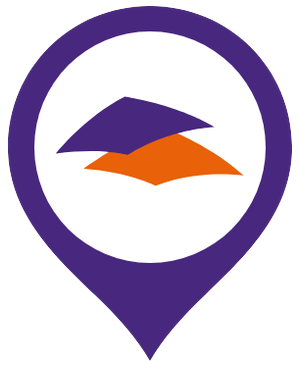
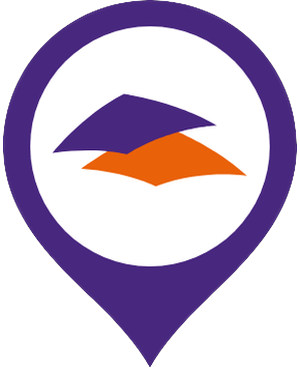
Build 104: alle markers even groot, kaart opent op de laatste 6 uur
Elke pin is 44 punten hoog (Apple TV 64) op iOS, Android, website en de kaartafbeelding van de server.
De kaart staat standaard op 6 uur in plaats van 24 uur.

Claude-Session: https://claude.ai/code/session_01CXMY93tUivvJNkpfMAQTgP

diff --git a/website/assets/js/pager.js b/website/assets/js/pager.js
@@ -3,13 +3,13 @@ import {
   fmtTime, fmtTimeSec, fmtDay, fmtDateTime, ago, esc, dayKey, isRecent, isUrgent, prioText, plaatsText, hasStreet,
   capPlaats, story, today as todayStats, yesterday as yesterdayStats, isRead, markRead, prefs, distanceKm, appleMapsURL,
   API, loadMapKit, mapsAllowed, markerAnnotation, spread, layout, clusterAnnotation, clusterEl, CONDITIONS, compass, demoMode, countUp,
-} from "./core.js?v=61";
+} from "./core.js?v=62";
 import {
   BRONNEN, fetchWaarschuwingen, fetchHelikopters, fetchLuchtvaart, LUCHT_SOORT, LUCHT_SOORTEN, luchtSoort, luchtKeuze, zetLuchtKeuze, wKop, wTijd, wKleur, wOpKleur, wStatus, wIcon, wStart, isActief, isBeeindigd,
   wRings, kazerneRoutes, routeFase, geschattePositie, verband, heliAnnotation, heliInfo, warnAnnotation, warnOverlays, kazerneAnnotation, kazernes,
   heliGenoemd, heliNaam, heliRelevant, heliVoor, heliImg, vliegtWest, fetchSpoor, fetchSpoorVol, inzetVoor, inzetVan, inzetTekst, fetchVerloop, fetchPost, fetchApp, fetchPand, pandTekst, inDeLucht, inzetEenheden, fetchVluchten, fetchHeliStatus, meldToestel, spoorOverlay, vluchtTekst, heliLaag, geschat, fetchLocaties, locatieAnnotation, locatieSoort, locatieIcon, voorspellingTekst, voorspellingOverlay, afspeelPunt,
   fetchVerkeer, verkeerOverlay, verkeerAnnotation, flitserAnnotation, verkeerHTML,
-  CODES, isOpgeheven, isKind, isVnog, wShareUrl, mShareUrl, routeLinks, weergave, zetWeergave, kaartKleur, volgKaartKleur, isGrootIncident, radarLaag, meldingFeedback } from "./aalerts.js?v=76";
+  CODES, isOpgeheven, isKind, isVnog, wShareUrl, mShareUrl, routeLinks, weergave, zetWeergave, kaartKleur, volgKaartKleur, isGrootIncident, radarLaag, meldingFeedback } from "./aalerts.js?v=77";
 
 const $ = (id) => document.getElementById(id);
 trackVisit();
@@ -32,7 +32,7 @@ const state = {
   radiusKm: Number(prefs.get("p2000.radius", 0)),
   here: null,
   hideRead: prefs.get("p2000.hideRead", false),
-  mapHours: 24,
+  mapHours: 6, // the map opens on the last 6 hours
   mapDiensten: new Set(SELECTABLE),
   mapBronnen: new Set(["nlalert", "burgernet", "amber", "vermistkind", "vnog"]),
   // A-Alerts
@@ -1161,7 +1161,7 @@ function renderStaticMarkers(pins, clusters) {
   box.innerHTML = pins.map((m) => {
     const p = pos(m);
     if (!inside(p)) return "";
-    return `<img class="mk-marker" style="position:absolute;left:${p.x}%;top:${p.y}%;margin:-38px 0 0 -19px" src="${asset(`assets/img/${dienstOf(m).marker}.png`)}" alt="${esc(m.title)}" title="${esc(m.title)}" data-guid="${esc(m.guid)}">`;
+    return `<img class="mk-marker" style="position:absolute;left:${p.x}%;top:${p.y}%;margin:-48px 0 0 -24px;width:48px;height:48px" src="${asset(`assets/img/${dienstOf(m).marker}.png`)}" alt="${esc(m.title)}" title="${esc(m.title)}" data-guid="${esc(m.guid)}">`;
   }).join("");
   for (const c of clusters) {
     const p = pos(c);

diff --git a/android/app/src/main/java/nl/lrvdlinden/aalerts/ui/MapScreen.kt b/android/app/src/main/java/nl/lrvdlinden/aalerts/ui/MapScreen.kt
@@ -226,17 +226,17 @@ fun MapScreen(nav: Nav) {
     if (KaartLaag.KNMI.key in lagen) warns.filter { it.bron == "knmi" && !it.isBeeindigd }.forEach { areas += MapArea(it.id, it.gebied ?: emptyList(), it.color.toArgb().toLong(), 0.18) }
     if (KaartLaag.WAARSCHUWINGEN.key in lagen) warns.filter { it.bron != "knmi" && it.bron !in verborgen }.forEach { w ->
         if (w.bron == "nlalert") areas += MapArea(w.id, w.gebied ?: emptyList(), w.color.toArgb().toLong(), if (w.isBeeindigd) 0.06 else 0.2)
-        if (w.hasCoordinate) points += MapPoint("w:${w.id}", w.lat!!, w.lon!!, w.marker, 34, dim = w.isBeeindigd)
+        if (w.hasCoordinate) points += MapPoint("w:${w.id}", w.lat!!, w.lon!!, w.marker, PIN_BRON, dim = w.isBeeindigd)
     }
     if (KaartLaag.KAZERNES.key in lagen) Werkgebied.kazernes.forEach { k -> k.dienst.icon?.let { points += MapPoint("k:${k.id}", k.lat, k.lon, it, if (selected == "k:${k.id}") 30 else 24, anchorBottom = false, kazerne = k.dienst.color.toArgb().toLong()) } }
     // Several alerts at one address: one marker with the number on top; trauma helicopter first, then police.
     val adressen = remember(meldingen) { meldingen.groupBy { "%.4f,%.4f".format(java.util.Locale.US, it.lat, it.lon) }.filterValues { it.size > 1 }.mapValues { (_, l) -> l.sortedByDescending { it.millis } } }
     if (KaartLaag.MELDINGEN.key in lagen) {
         val samen = adressen.values.flatten().map { it.guid }.toSet()
-        meldingen.filter { it.guid !in samen }.sortedBy { it.millis }.forEach { m -> m.soort.marker?.let { points += MapPoint(m.guid, m.lat!!, m.lon!!, it, if (m.guid == selected) 46 else 34, dim = m.guid in Settings.gelezen && m.guid != selected) } }
+        meldingen.filter { it.guid !in samen }.sortedBy { it.millis }.forEach { m -> m.soort.marker?.let { points += MapPoint(m.guid, m.lat!!, m.lon!!, it, if (m.guid == selected) PIN_DIENST + 8 else PIN_DIENST, dim = m.guid in Settings.gelezen && m.guid != selected) } }
         adressen.forEach { (k, l) ->
             val boven = l.firstOrNull { it.soort == Dienst.TRAUMAHELI } ?: l.firstOrNull { it.soort == Dienst.POLITIE } ?: l.groupBy { it.soort }.maxBy { it.value.size }.value.first()
-            boven.soort.marker?.let { points += MapPoint("a:$k", l[0].lat!!, l[0].lon!!, it, if (selected == "a:$k") 46 else 38, count = l.size) }
+            boven.soort.marker?.let { points += MapPoint("a:$k", l[0].lat!!, l[0].lon!!, it, if (selected == "a:$k") PIN_DIENST + 8 else PIN_DIENST, count = l.size) }
         }
     }
     val lines = mutableListOf<MapLine>()

diff --git a/P2000Apeldoorn/Views/MapScreen.swift b/P2000Apeldoorn/Views/MapScreen.swift
@@ -20,7 +20,8 @@ struct MapScreen: View {
         }
     }
 
-    @State private var range: Range = .uur24
+    /// The map opens on the last 6 hours.
+    @State private var range: Range = .uur6
     @State private var selected: Melding?
     @State private var selectedCluster: PlaatsCluster?
     @State private var selectedHeli: Helikopter.ID?
@@ -334,7 +335,7 @@ struct MapScreen: View {
         }
         ForEach(groups.pins) { pin in
             Annotation(pin.melding.title, coordinate: pin.coordinate, anchor: .bottom) {
-                DienstMarker(dienst: pin.melding.dienst, size: 44, selected: selected?.guid == pin.melding.guid)
+                DienstMarker(dienst: pin.melding.dienst, selected: selected?.guid == pin.melding.guid)
                     .onTapGesture { withAnimation { selected = pin.melding; selectedHeli = nil; selectedKazerne = nil } }
                     .accessibilityAddTraits(.isButton)
             }
@@ -345,7 +346,7 @@ struct MapScreen: View {
     @MapContentBuilder private func waarschuwingMarkers(_ ws: [Waarschuwing]) -> some MapContent {
         ForEach(ws.filter { $0.bron != .knmi && $0.coordinate != nil }) { w in
             Annotation(w.kop, coordinate: w.coordinate ?? CLLocationCoordinate2D(latitude: Config.center.lat, longitude: Config.center.lon), anchor: .bottom) {
-                WaarschuwingMarker(waarschuwing: w, size: 44)
+                WaarschuwingMarker(waarschuwing: w)
                     .opacity(w.isBeeindigd ? 0.6 : 1)
                     .onTapGesture { openedWaarschuwing = WaarschuwingRef(id: w.id) }
                     .accessibilityAddTraits(.isButton)

diff --git a/website/assets/js/meldkamer.js b/website/assets/js/meldkamer.js
@@ -4,12 +4,12 @@ import {
   trackVisit, fetchMeldingen, DIENSTEN, SELECTABLE, dienstOf, asset, date, fmtTime, fmtTimeSec, fmtDay, ago, esc,
   isRecent, isUrgent, prioText, plaatsText, today as todayStats, yesterday as yesterdayStats, prefs, loadMapKit, layout, clusterEl, hasStreet, capPlaats,
   demoMode, countUp,
-} from "./core.js?v=61";
+} from "./core.js?v=62";
 import {
   BRONNEN, fetchWaarschuwingen, fetchHelikopters, fetchLuchtvaart, wKop, wTijd, wKleur, wOpKleur, wIcon, wStart, isActief, isBeeindigd, warnAnnotation, warnOverlays,
   heliLaag, fetchSpoor, spoorOverlay, geschat, fetchLocaties, locatieAnnotation, voorspellingOverlay, voorspellingTekst, heliImg, heliInfo, vliegtWest, heliVoor, heliRelevant, kazernes, kazerneAnnotation, kazerneRoutes, werkgebiedLijnen, radarLaag,
   kaartKleur, volgKaartKleur, fetchVerkeer, verkeerOverlay, verkeerAnnotation, flitserAnnotation,
-} from "./aalerts.js?v=76";
+} from "./aalerts.js?v=77";
 
 const $ = (id) => document.getElementById(id);
 trackVisit();
@@ -74,6 +74,7 @@ function region({ lat, lon, dLat, dLon }) {
 function markerEl(m) {
   const el = document.createElement("div");
   el.className = "mk-marker" + (isRecent(m) ? " is-live" : "");
+  el.style.width = el.style.height = "48px"; // the same size as every other pin (core.js PIN_DIENST)
   el.style.setProperty("--c", dienstOf(m).color);
   el.innerHTML = `<img src="${marker(m)}" alt="">`;
   el.addEventListener("click", () => window.open(pagerLink(m), "_self"));

diff --git a/website/assets/js/core.js b/website/assets/js/core.js
@@ -242,11 +242,17 @@ export function loadMapKit() {
   return mapkitReady;
 }
 
+// One size for every pin on every map: the drawn pin is 44 px high. The service art is square with an empty edge
+// (48 px), the source art (NL-Alert, Burgernet, AMBER, Vermist Kind, VNOG) is a bare pin (36 px wide).
+export const PIN_DIENST = "48px";
+export const PIN_BRON = "36px";
+
 export function markerAnnotation(mk, m, onSelect) {
   const coord = new mk.Coordinate(m.lat, m.lon);
   const factory = () => {
     const el = document.createElement("div");
     el.className = "mk-marker" + (isRecent(m) ? " is-live" : "");
+    el.style.width = el.style.height = PIN_DIENST;
     el.innerHTML = `<img src="${asset(`assets/img/${dienstOf(m).marker}.png`)}" alt="">`;
     return el;
   };
@@ -319,6 +325,7 @@ export function layout(list) {
 export function clusterEl(c, onClick) {
   const el = document.createElement("div");
   el.className = "mk-marker mk-cluster";
+  el.style.width = el.style.height = PIN_DIENST;
   el.title = c.adres ? `${c.meldingen.length} meldingen op ${c.plaats}` : `${c.meldingen.length} meldingen zonder adres in ${c.plaats}`;
   el.innerHTML = `<img src="${asset(`assets/img/${(DIENSTEN[c.main] || DIENSTEN.onbekend).marker}.png`)}" alt=""><b class="mk-count">${c.meldingen.length}</b>`;
   if (onClick) el.addEventListener("click", (e) => { e.stopPropagation(); onClick(c); });

diff --git a/website/assets/js/widget.js b/website/assets/js/widget.js
@@ -3,12 +3,12 @@
 // Used in the side column of a-alerts.nl/nieuws and on other websites through /widget/ (iframe, or embed.js).
 // The map: municipal border in the colour of the active KNMI code, traffic (NDW), P2000 alerts of the last 3 hours,
 // helicopters inside the area, hospitals, rain radar and (optional) fixed speed cameras. Light/dark follows the device.
-import { weerKaartHTML, tekenWeerKaart, codeKleur, opKleur, CODE_KLEUR } from "./weerkaart.js?v=1";
-import { API, asset, esc, loadMapKit, mapsAllowed, markerAnnotation, fmtTime, prefs } from "./core.js?v=61";
+import { weerKaartHTML, tekenWeerKaart, codeKleur, opKleur, CODE_KLEUR } from "./weerkaart.js?v=2";
+import { API, asset, esc, loadMapKit, mapsAllowed, markerAnnotation, fmtTime, prefs } from "./core.js?v=62";
 import {
   fetchWaarschuwingen, fetchHelikopters, heliLaag, fetchLocaties, locatieAnnotation, radarLaag, CODES, mShareUrl,
   fetchVerkeer, verkeerOverlay, verkeerAnnotation, flitserAnnotation, verkeerIcon, verkeerFile, VERKEER_SOORT, verkeerRegels, verkeerTijdvak, verkeerKleur,
-} from "./aalerts.js?v=76";
+} from "./aalerts.js?v=77";
 
 // The area: Apeldoorn, the villages and hamlets, Teuge, with the A1 and A50 around it.
 const GEBIED = { noord: 52.36, zuid: 52.03, oost: 6.20, west: 5.70 };

diff --git a/Shared/Components.swift b/Shared/Components.swift
@@ -77,16 +77,17 @@ struct DienstIcon: View {
     }
 }
 
-/// Map pin artwork from the website (pin tip at the bottom centre).
+/// Map pin artwork from the website (pin tip at the bottom centre). The size is the height of the drawn pin: the artwork
+/// has an empty edge (the pin is 118 of 128 pixels high), so the image is drawn that much larger around the same centre.
 struct DienstMarker: View {
     let dienst: Dienst
-    var size: CGFloat = 44
+    var size: CGFloat = KaartMaat.pin
     var selected = false
 
     var body: some View {
         Group {
             if let name = dienst.markerImage {
-                Image(name).resizable().scaledToFit()
+                Image(name).resizable().scaledToFit().frame(width: size * 128 / 118, height: size * 128 / 118)
             } else {
                 ZStack {
                     Circle().fill(dienst.color)
@@ -106,7 +107,7 @@ struct DienstMarker: View {
 /// the normal pin of the most common service, with a black count badge at the top right.
 struct ClusterMarker: View {
     let cluster: PlaatsCluster
-    var size: CGFloat = 44
+    var size: CGFloat = KaartMaat.pin
     var selected = false
 
     var body: some View {

diff --git a/website/assets/js/aalerts.js b/website/assets/js/aalerts.js
@@ -1,6 +1,6 @@
 // A-Alerts on the website: NL-Alert, Burgernet, KNMI, live helicopters, alarmed stations and the "verloop".
 // Same rules as the app (Shared/Waarschuwing.swift, Verband.swift, Kazernes.swift, Helikopters.swift).
-import { API, asset, esc, date, capPlaats, hasStreet, distanceKm, fmtTime } from "./core.js?v=61";
+import { API, asset, esc, date, capPlaats, hasStreet, distanceKm, fmtTime } from "./core.js?v=62";
 
 const TZ = "Europe/Amsterdam";
 
@@ -375,7 +375,7 @@ export function warnAnnotation(mk, w, onSelect) {
     const el = document.createElement("div");
     el.className = "mk-marker warn-marker";
     if (isBeeindigd(w)) el.style.cssText = "opacity:.6;filter:grayscale(1)";
-    el.innerHTML = `<img src="${asset(`assets/img/marker_${w.bron}.png`)}" alt="" style="width:34px;height:auto">`;
+    el.innerHTML = `<img src="${asset(`assets/img/marker_${w.bron === "vnog" ? "vnog2" : w.bron}.png`)}" alt="" style="width:36px;height:auto">`;
     return el;
   };
   const a = new mk.Annotation(new mk.Coordinate(w.lat, w.lon), factory, { calloutEnabled: false, title: w.titel, anchorOffset: new DOMPoint(0, -18) });

diff --git a/android/app/src/main/java/nl/lrvdlinden/aalerts/ui/MeldingDetail.kt b/android/app/src/main/java/nl/lrvdlinden/aalerts/ui/MeldingDetail.kt
@@ -116,7 +116,7 @@ private fun MeldingContent(m: Melding, weer: AlertWeather?, weerKlaar: Boolean, 
                     val la = m.lat!!; val lo = m.lon!!
                     val pts = mutableListOf<MapPoint>()
                     routes.forEach { r -> pts += MapPoint("k:${r.kazerne.id}", r.kazerne.lat, r.kazerne.lon, r.kazerne.dienst.icon ?: R.drawable.icon_brandweer, 26, r.kazerne.naam.substringAfter(" ").take(18), anchorBottom = false, kazerne = r.kazerne.dienst.color.toArgb().toLong()) }
-                    m.soort.marker?.let { pts += MapPoint(m.guid, la, lo, it, 44) }
+                    m.soort.marker?.let { pts += MapPoint(m.guid, la, lo, it, PIN_DIENST) }
                     // Estimated vehicle on its way (an estimate from the times, not a real position).
                     routes.forEach { r -> r.geschattePositie(now, la to lo)?.let { (pla, plo) ->
                         pts += MapPoint("v:${r.kazerne.id}", pla, plo, r.kazerne.dienst.icon ?: R.drawable.icon_brandweer, 22, tr("schatting", "estimate"), anchorBottom = false, kazerne = r.kazerne.dienst.color.toArgb().toLong())

diff --git a/P2000ApeldoornTV/MeldkamerView.swift b/P2000ApeldoornTV/MeldkamerView.swift
@@ -106,7 +106,7 @@ struct MeldkamerView: View {
                 }
                 ForEach(groups.clusters) { c in
                     Annotation(c.plaats, coordinate: c.coordinate, anchor: .bottom) {
-                        ClusterMarker(cluster: c, size: 64, selected: c.meldingen.contains { $0.guid == focusGuid })
+                        ClusterMarker(cluster: c, selected: c.meldingen.contains { $0.guid == focusGuid })
                     }
                     .annotationTitles(.hidden)
                 }
@@ -122,7 +122,7 @@ struct MeldkamerView: View {
                         MapPolygon(coordinates: ring).foregroundStyle(w.color.opacity(0.2)).stroke(w.color, lineWidth: 2)
                     }
                     if let c = w.coordinate {
-                        Annotation(w.titel, coordinate: c, anchor: .bottom) { WaarschuwingMarker(waarschuwing: w, size: 56) }
+                        Annotation(w.titel, coordinate: c, anchor: .bottom) { WaarschuwingMarker(waarschuwing: w) }
                             .annotationTitles(.hidden)
                     }
                 }

diff --git a/worker/src/kaart.js b/worker/src/kaart.js
@@ -4,12 +4,13 @@
 // Only places in and around the Netherlands and a fixed set of markers, so the endpoint cannot be used for anything else.
 import { signRaw, hasKey } from "./apple.js";
 
+// One size for every pin: the drawn pin is 44 points high (the service art has an empty edge, so its image is 48).
 export const MARKERS = {
   brandweer: ["marker_brandweer.png", 48, 48, 1.5], ambulance: ["marker_ambulance.png", 48, 48, 1.5],
   politie: ["marker_politie.png", 48, 48, 1.5], traumaheli: ["marker_traumaheli.png", 48, 48, 1.5],
-  burgernet: ["marker_burgernet.png", 39, 48, 0], nlalert: ["marker_nlalert.png", 39, 48, 0],
-  amber: ["marker_amber.png", 39, 48, 0], vermistkind: ["marker_vermistkind.png", 39, 48, 0],
-  vnog: ["marker_vnog.png", 39, 48, 0],
+  burgernet: ["marker_burgernet.png", 36, 44, 0], nlalert: ["marker_nlalert.png", 36, 44, 0],
+  amber: ["marker_amber.png", 36, 44, 0], vermistkind: ["marker_vermistkind.png", 36, 44, 0],
+  vnog: ["marker_vnog2.png", 36, 44, 0],
 };
 const ASSETS = "https://a-alerts.nl/assets/img/";
 export const KAART = { size: 600, scale: 2 };

diff --git a/android/app/src/main/java/nl/lrvdlinden/aalerts/ui/WaarschuwingDetail.kt b/android/app/src/main/java/nl/lrvdlinden/aalerts/ui/WaarschuwingDetail.kt
@@ -85,7 +85,7 @@ fun WaarschuwingDetail(id: String, nav: Nav) {
                 val lo = x.lon ?: fit.map { it.second }.average().takeIf { !it.isNaN() } ?: if (landelijk) 5.3 else 5.9699
                 AMap(
                     Modifier.fillMaxWidth().height(h).alpha(if (ended) 0.85f else 1f),
-                    points = if (x.bron != "knmi" && x.hasCoordinate) listOf(MapPoint(x.id, x.lat!!, x.lon!!, x.marker, 40, dim = ended)) else emptyList(),
+                    points = if (x.bron != "knmi" && x.hasCoordinate) listOf(MapPoint(x.id, x.lat!!, x.lon!!, x.marker, PIN_BRON, dim = ended)) else emptyList(),
                     areas = listOf(MapArea(x.id, rings, (if (ended && !x.isOpgeheven) Color.Gray else x.color).toArgb().toLong(), 0.2)) +
                         listOf(MapArea("werkgebied", Werkgebied.gemeenteGebied, 0xFFCF0A1E, 0.0, width = 1.5)),
                     camera = MapCamera(la, lo, if (landelijk) 6.4 else if (x.bron == "burgernet") 13.5 else 11.0, fit = if (fit.size > 2) fit else emptyList(), key = x.id),
